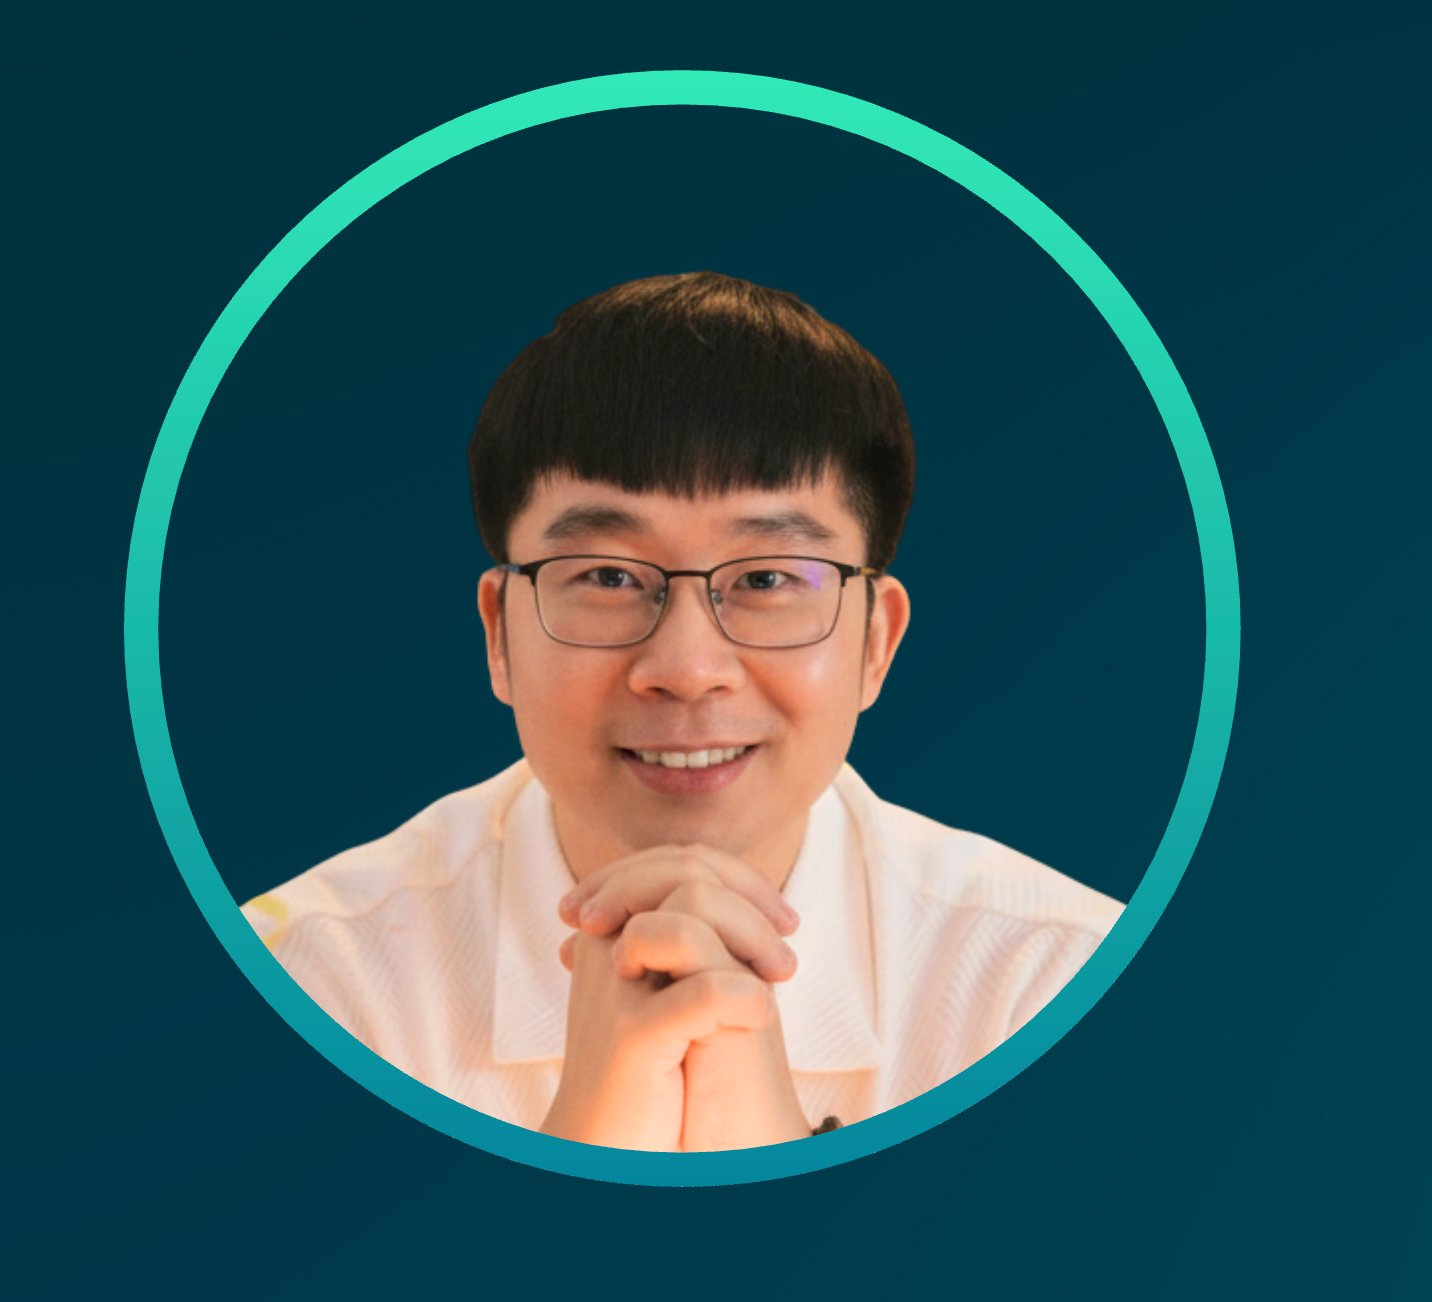
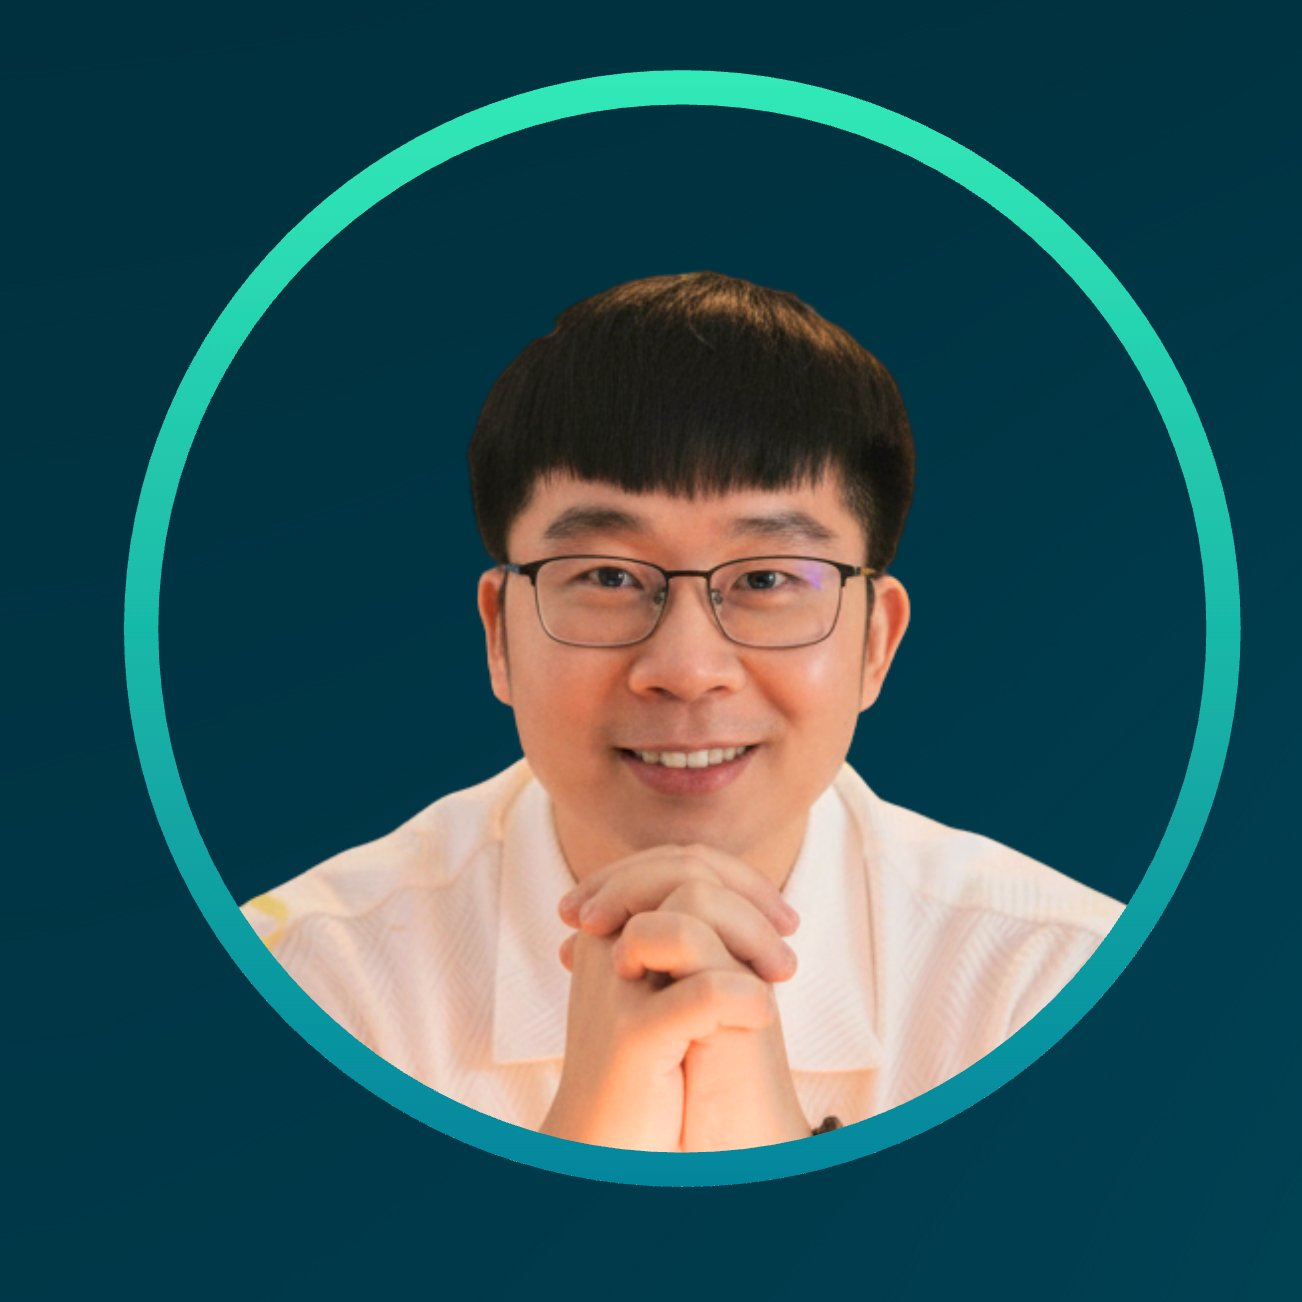
b

Changed region(s): [[0.0614, 0.0307, 0.9524, 0.9217]]

diff --git a/src/pages/Mentors.tsx b/src/pages/Mentors.tsx
@@ -60,7 +60,7 @@ export default function Mentors() {
                     <img
                       src={`/${mentor.name}.png`}
                       alt={mentor.name}
-                      style={{ width: 110, height: 110, borderRadius: "50%", objectFit: "cover", objectPosition: "center 15%", display: "block", filter: `drop-shadow(0 0 10px rgba(${rgb(mentor.color)},0.5))` }}
+                      style={{ width: 110, height: 110, minWidth: 110, minHeight: 110, borderRadius: "50%", objectFit: "cover", objectPosition: "center 20%", display: "block", flexShrink: 0, filter: `drop-shadow(0 0 10px rgba(${rgb(mentor.color)},0.5))` }}
                     />
                     <div style={{ position: "absolute", bottom: 2, right: 2, width: 14, height: 14, borderRadius: "50%", background: "#22c55e", border: "2px solid rgba(10,20,45,0.8)" }} />
                   </div>

diff --git a/src/pages/Home.tsx b/src/pages/Home.tsx
@@ -277,7 +277,7 @@ export default function Home() {
                   <img
                     src={`/${m.name}.png`}
                     alt={m.name}
-                    style={{ width: 120, height: 120, borderRadius: "50%", objectFit: "cover", objectPosition: "center 15%", marginBottom: 16, display: "block", filter: `drop-shadow(0 0 8px rgba(${rgb(m.color)},0.5))` }}
+                    style={{ width: 120, height: 120, minWidth: 120, minHeight: 120, borderRadius: "50%", objectFit: "cover", objectPosition: "center 20%", marginBottom: 16, display: "block", flexShrink: 0, filter: `drop-shadow(0 0 8px rgba(${rgb(m.color)},0.5))` }}
                   />
 
                   <div style={{ fontFamily: "var(--font-display)", fontSize: "18px", fontWeight: 700, marginBottom: 6 }}>{m.name}</div>
